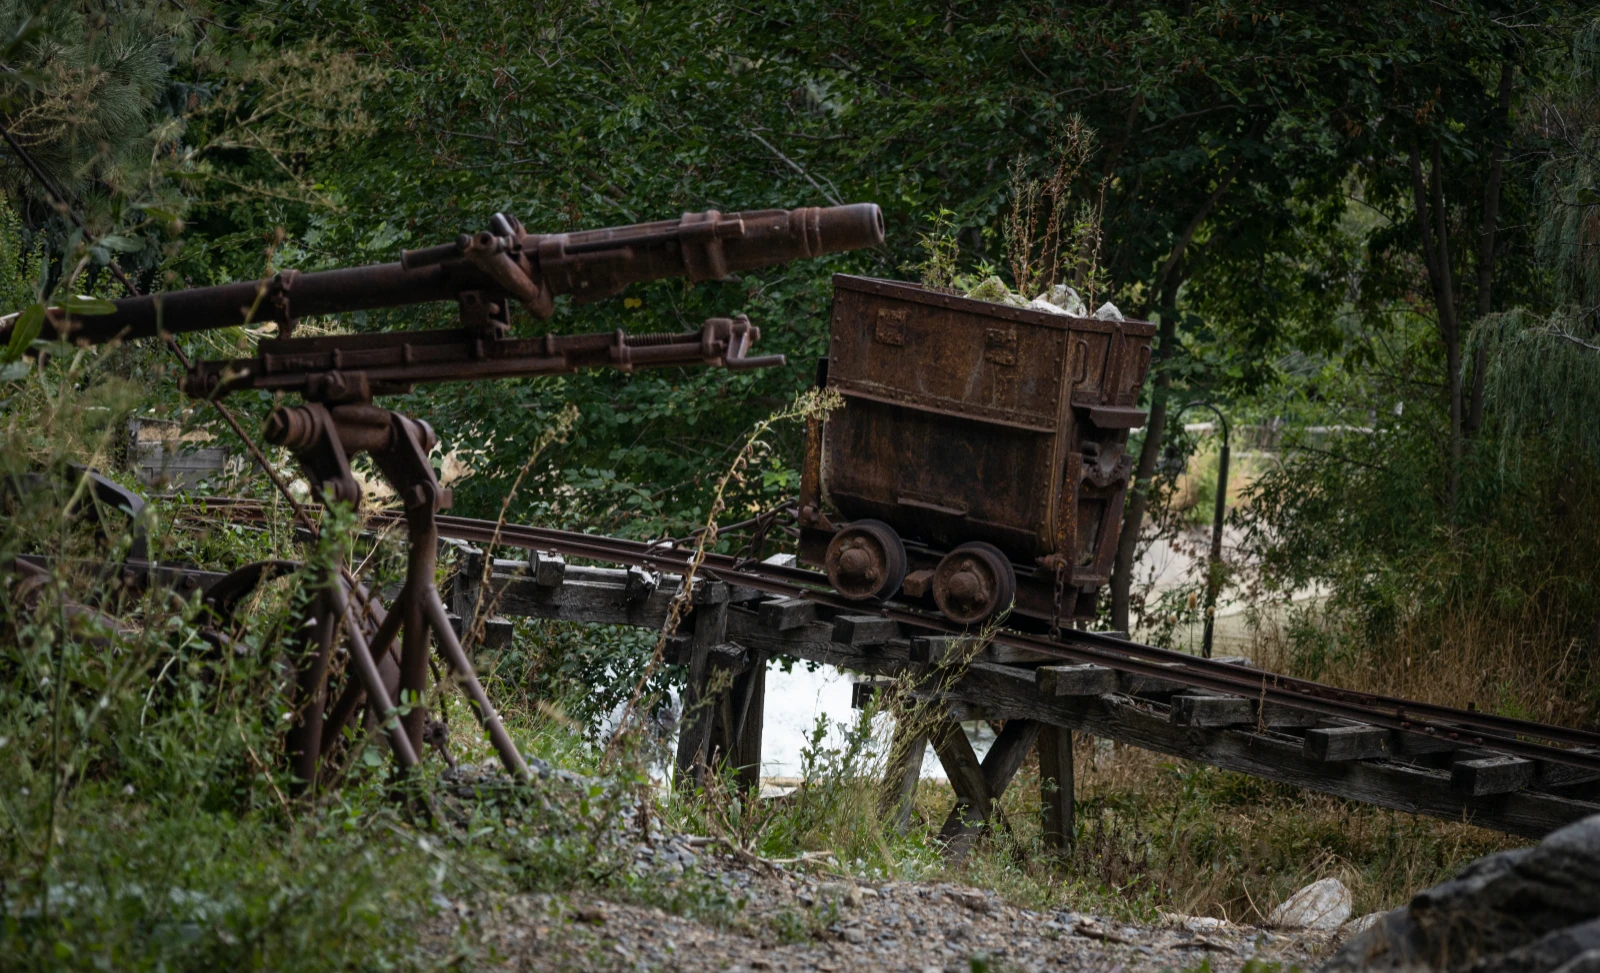
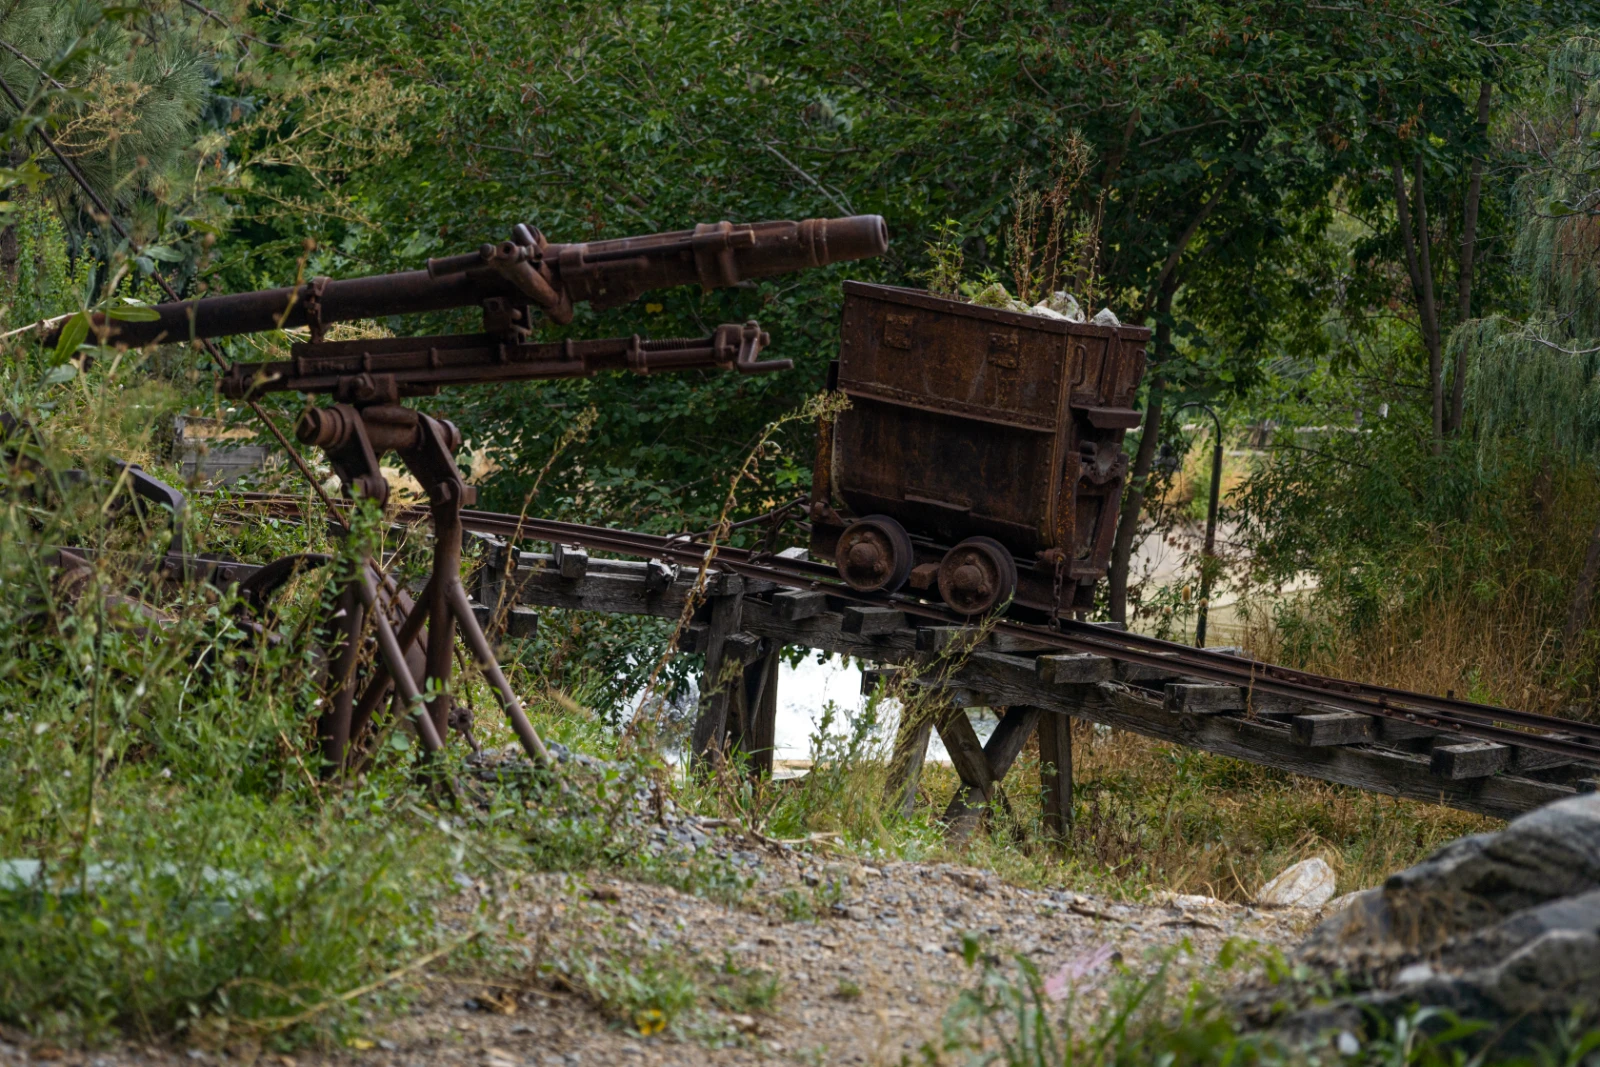
u

diff --git a/js/photography-page.js b/js/photography-page.js
@@ -281,6 +281,8 @@
 
     if (stem === 'lemon bundt') return '50% 16%';   // flower at top
 
+    if (stem === 'minecarts') return '50% 16%';   // top
+
   };
 
   const albumNav = qs('[data-album-nav]');
